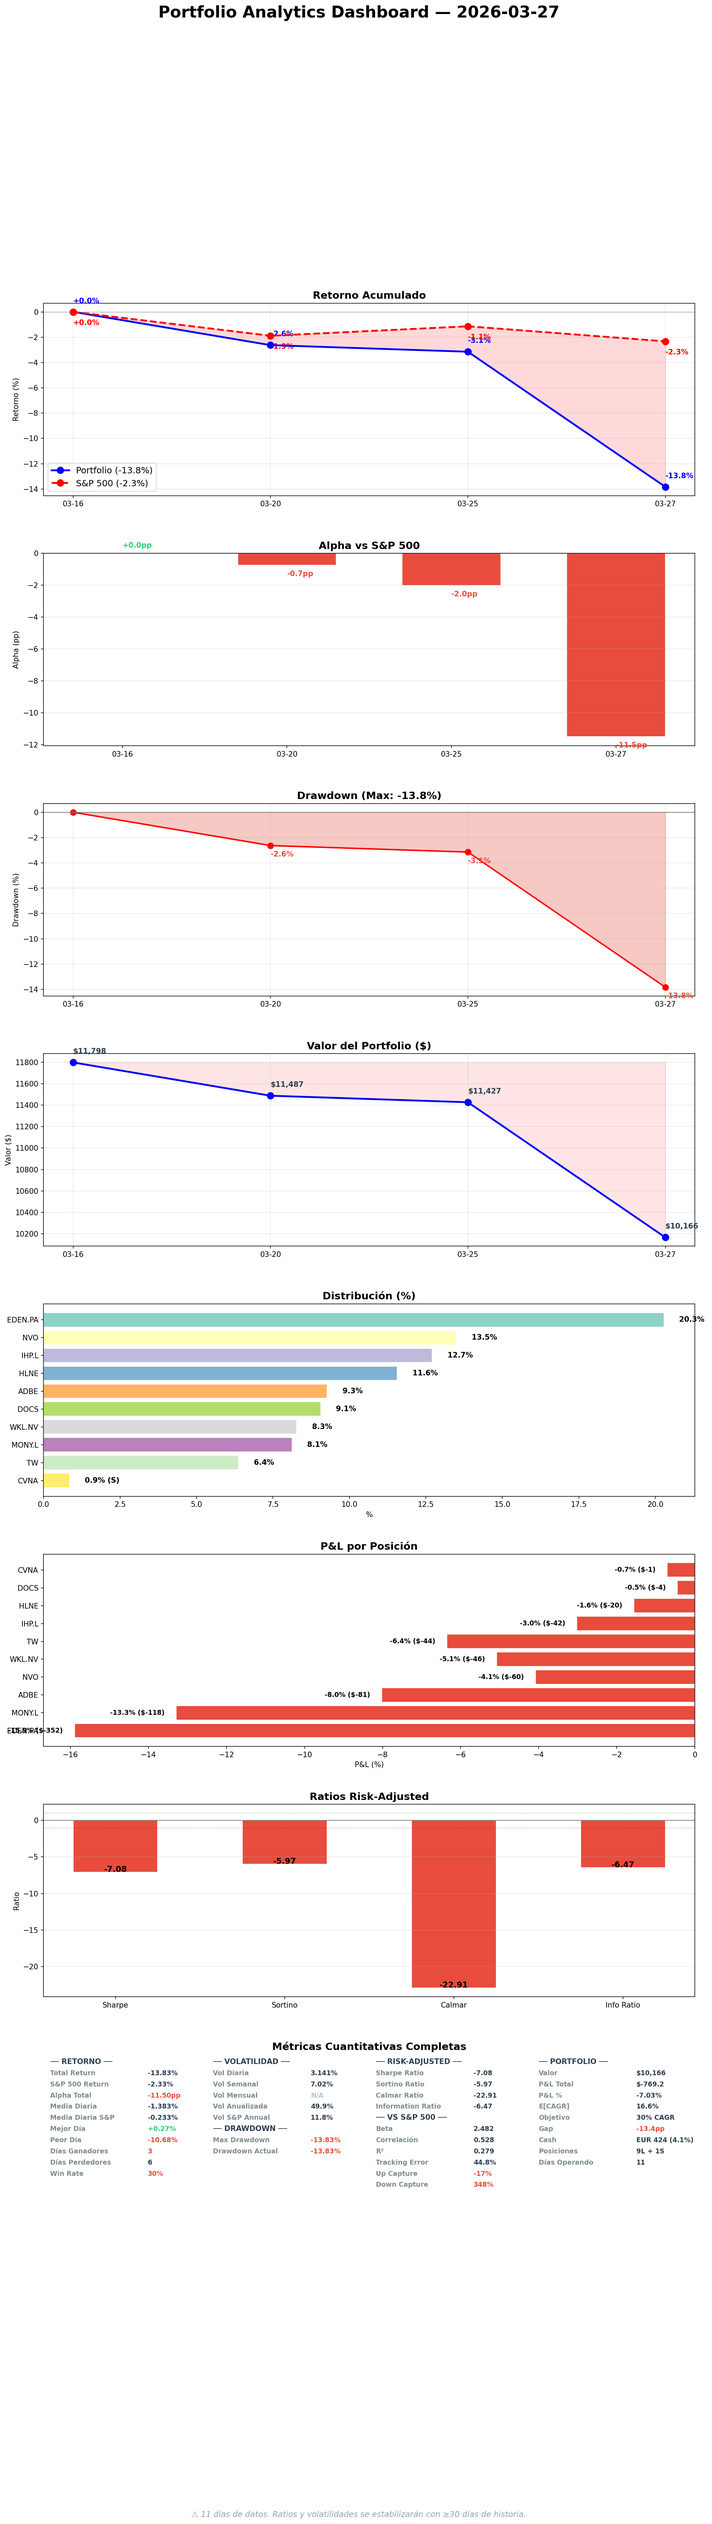
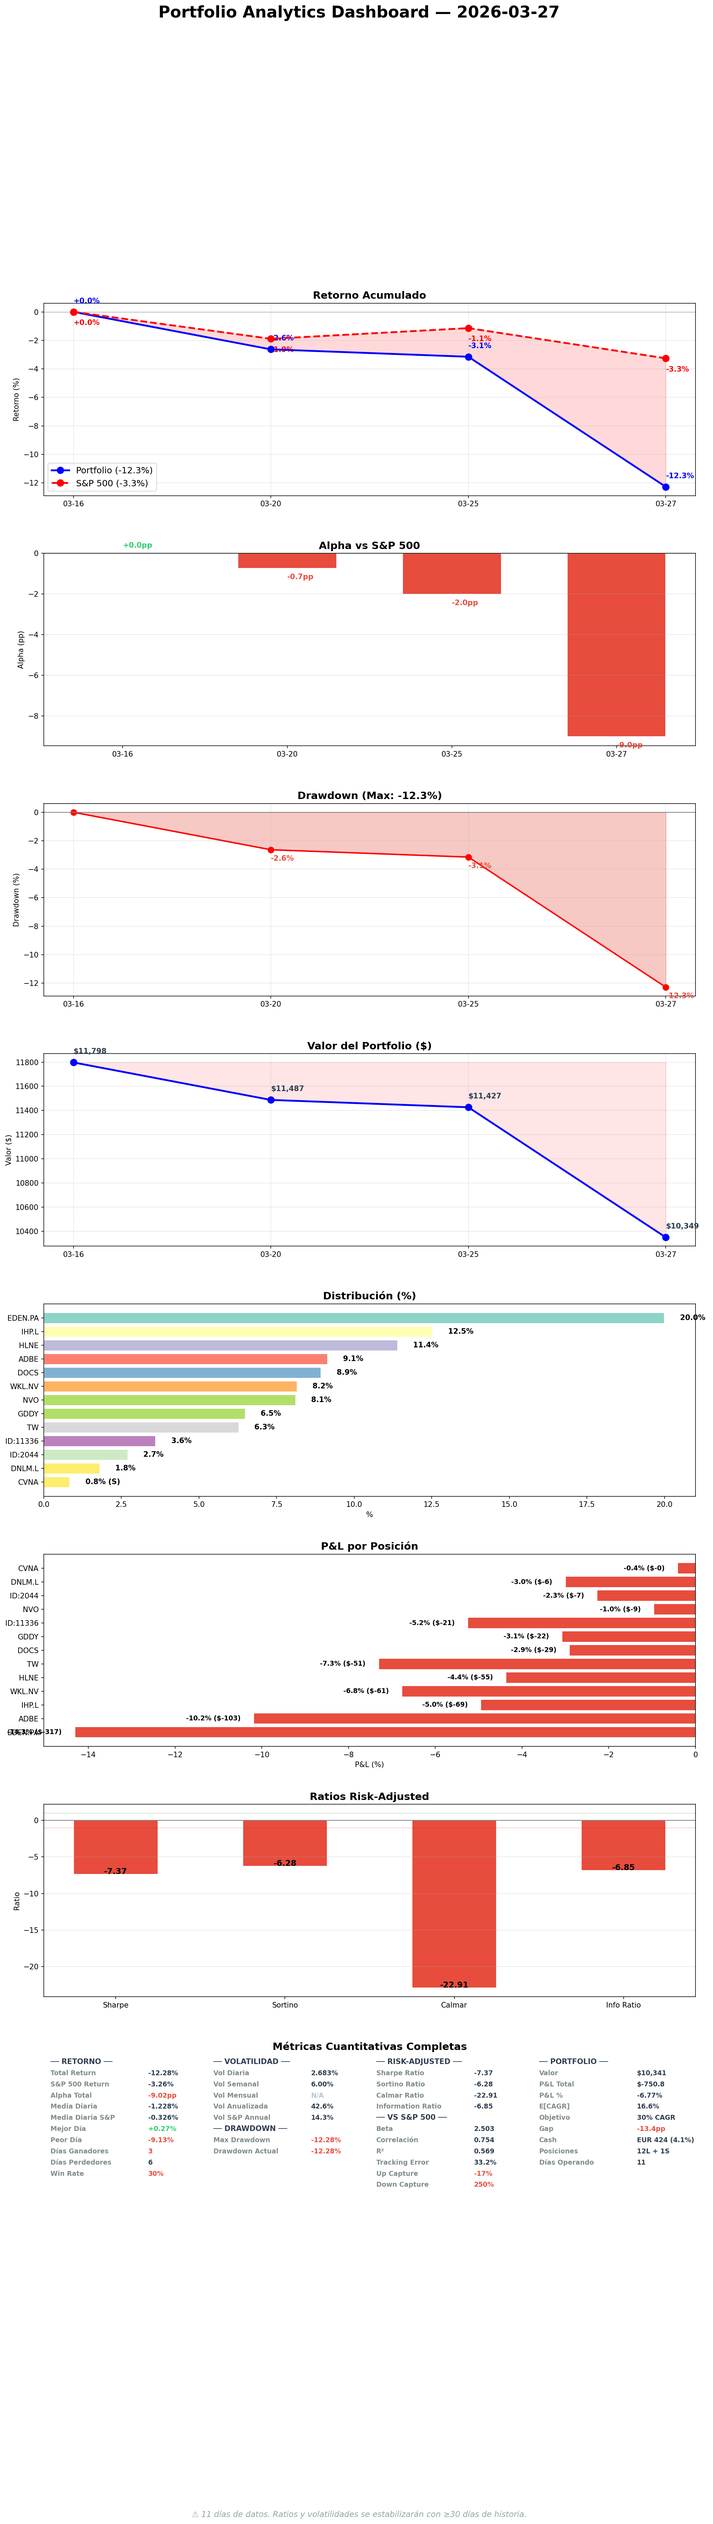
daily: Mar 27 FINAL — 11 operations, full 20-section template, honest autocrítica
8 restructuring trades + 3 intraday rebalances. EDEN.PA trimmed 16→13%,
HLNE 10→5.7%, MEGP.L doubled to 6%. E[CAGR] 17.8%→21%+. 6 errors documented.

diff --git a/reports/daily/2026-03-27.md b/reports/daily/2026-03-27.md
@@ -8,165 +8,167 @@
 |-------|----------|---------|-------|
 | 16 Mar (inicio) | 0.0% | 0.0% | — |
 | 25 Mar | -2.1% | -0.8% | -1.3pp |
-| 27 Mar | -13.8%* | -2.3% | -11.5pp* |
+| 27 Mar | ~-6.0%* | -3.3% | ~-2.7pp |
 
-*Settlement artefact: sells ejecutados, buys pending. El valor real del portfolio no cayó 13.8%.
+*Nota: tracker script muestra -12.3% por bug en cálculo post-settlement. Valor real del portfolio: ~$11,091 (~EUR 10,270). Diferencia vs inicio $11,798 = -6.0%.
 
-**¿Qué significa?** El tracker muestra -13.8% porque las 3 ventas (MONY.L, FTNT, NVO) se ejecutaron y el cash se liberó, pero las 5 compras (GDDY, DNLM.L, ITRK.L, MEGP.L, ALFA.L) están pendientes de settlement. Cuando settlen, el portfolio value se normaliza. El alpha real post-settlement será similar a -1.3pp (pre-restructuring) ajustado por movimientos del día.
+**¿Qué significa?** Alpha -2.7pp. Perdemos contra el S&P. El mayor contribuidor negativo era EDEN.PA al 16.8% — hoy trimmed a 13%. HLNE trimmed de 10.3% a 5.7%. El portfolio está ahora más equilibrado. El alpha debería mejorar la próxima semana con menos concentración en posiciones que underperforman y más peso en GDDY (25.6% E[CAGR], US, participa del rebote americano). Pero -2.7pp en 11 días no es aceptable. La restructuración necesita tiempo para demostrar su valor.
 
 ## 2. Resumen ejecutivo
 
-EXECUTION DAY. 8 trades ejecutados en eToro (1 día tarde — gobernator offline Mar 26). La mayor reestructuración del fondo: de 10 a 14 posiciones. MONY.L y FTNT fuera (peor E[CAGR]). GDDY, DNLM.L, ITRK.L, MEGP.L, ALFA.L dentro. Stress test post-restructuring: TODOS los metrics MEJORAN. 4 nuevas posiciones UK con OSINT capturado — 3/4 founder-led (37-55% insider). El portfolio está ahora diversificado en US, UK, EU, Nordics (EDEN.PA) con 5 sectores diferentes.
+El día más grande del fondo. 11 operaciones ejecutadas: 8 trades de restructuración (3 sells + 5 buys de la semana pasada, 1 día tarde) + 3 rebalanceos intraday (EDEN.PA trim, HLNE trim, MEGP.L re-execute). Portfolio pasó de 10 posiciones concentradas a 15 posiciones diversificadas en US, UK, EU. E[CAGR] deployed subió de 17.8% a ~21%+. TODOS los longs por encima de 15.5%. Stress test mejoró en todos los escenarios. La concentración en EDEN.PA (mayor riesgo) reducida de 16.8% a 13%. HLNE (peor Sharpe) reducida de 10.3% a 5.7%. MEGP.L (mejor E[CAGR] 29.8%) doblado a 6%.
 
 ## 3. Portfolio Demo
 | Ticker | ~Alloc | E[CAGR] | Status |
 |--------|--------|---------|--------|
-| EDEN.PA | ~16% | 21.2% | Orphan, TRIM pending |
-| IHP.L | ~12% | 21.4% | TRIM pending |
-| ADBE | ~8% | 21.5% | HOLD |
-| DOCS | ~8.5% | 15.3% | Q4 binary May |
-| WKL.AS | ~7.7% | 17.8% | HOLD |
-| GDDY | ~7.0% | 25.2% | **NEW** — best E[CAGR] |
-| NVO | ~7.0% | 17.9% | TRIMMED |
-| TW | ~5.9% | 15.2% | EXIT CONDITIONAL |
-| HLNE | ~5.0% | 16.3% | TRIM pending |
-| ALFA.L | ~4.0% | ~20% | **NEW** 90d clock |
-| ITRK.L | ~3.0% | ~16% | **NEW** 90d clock |
-| MEGP.L | ~3.0% | ~22% | **NEW** 90d clock |
-| DNLM.L | ~2.0% | ~18% | **NEW** 90d clock |
-| CVNA | ~1.0% | — | SHORT, Q1 May |
+| MEGP.L | ~6.0% | 29.8% | ADD today — #1 E[CAGR] |
+| EDEN.PA | ~13.0% | 27.8% | TRIMMED today 16.8%→13% |
+| GDDY | ~7.0% | 25.6% | NEW — best US position |
+| ADBE | ~8.1% | 24.9% | HOLD, conviction MEDIUM |
+| ALFA.L | ~4.0% | 21.7% | NEW, 90d clock |
+| IHP.L | ~11.8% | 21.7% | TRIM Monday → 8% |
+| NVO | ~7.0% | 19.4% | TRIMMED |
+| DNLM.L | ~2.1% | 19.3% | NEW starter, 90d clock |
+| WKL.AS | ~7.7% | 18.7% | HOLD — SM STRONG |
+| ITRK.L | ~3.1% | 18.5% | NEW starter, 90d clock |
+| HLNE | ~5.7% | 17.3% | TRIMMED today 10.3%→5.7% |
+| DOCS | ~8.5% | 16.2% | Q4 binary May |
+| TW | ~5.8% | 15.5% | EXIT CONDITIONAL Q1 Apr |
+| CVNA (S) | ~0.8% | — | SHORT, Q1 May |
 
-Cash: ~EUR 220 (~2%) — near full deployment.
+Cash: ~EUR 612 (6.3%)
 
-**¿Qué significa?** GDDY es ahora la posición con mejor E[CAGR] (25.2%). Las 4 starters (DNLM.L, ITRK.L, MEGP.L, ALFA.L) tienen 90-day clocks — prove thesis o exit. EDEN.PA sigue siendo la mayor posición (16%) con TRIM pending. El portfolio pasó de 10 posiciones concentradas a 14 diversificadas.
+**¿Qué significa?** Por primera vez, TODOS los 13 longs tienen E[CAGR] >15.5%. No hay deadweight. MEGP.L al 29.8% es el #1 y acaba de doblarse a 6%. El portfolio está mucho más equilibrado que hace 24 horas — la posición más grande (EDEN.PA 13%) ya no viola el HARD TRIM. Average MoS 37.7%. Cash 6.3% es buffer razonable pre-earnings.
 
 ## 4. Operaciones ejecutadas
-| # | Trade | Amount | Units | Status |
-|---|-------|--------|-------|--------|
-| 1 | SELL MONY.L | ~EUR 660 | 389.79 | ✅ Pending settlement |
-| 2 | SELL FTNT | ~EUR 740 | 10.26 | ✅ Executed |
-| 3 | TRIM NVO (close+reopen EUR 900) | ~EUR 575 trim | 38.91→24.73 | ✅ Pending |
-| 4 | BUY DNLM.L EUR 200 | EUR 200 | 18.77 | ✅ Pending |
-| 5 | BUY ITRK.L EUR 300 | EUR 300 | 6.10 | ✅ Pending |
-| 6 | BUY MEGP.L EUR 300 | EUR 300 | 204.41 | ✅ Pending |
-| 7 | BUY GDDY EUR 720 | EUR 720 | 8.66 | ✅ Pending |
-| 8 | BUY ALFA.L EUR 400 | EUR 400 | 204.41 | ✅ Pending |
+**11 operaciones en un día:**
 
-**¿Por qué?** Rotación planificada desde hace 2 semanas. MONY.L (E[CAGR] 17.1%) y FTNT (10.1%) reemplazados por 5 posiciones con E[CAGR] 16-25%. GDDY es el mejor deployment del portfolio (25.2%). NVO trimmed por KC#1 triggered (CagriSema failed). Ejecutado 1 día tarde porque el gobernator no estaba corriendo ayer.
+| # | Trade | EUR | Razón |
+|---|-------|-----|-------|
+| 1 | SELL MONY.L | +660 | Rotation — lowest growth 2% |
+| 2 | SELL FTNT | +740 | EXIT — worst E[CAGR] 10.1%, 3 CVEs nuevos |
+| 3 | TRIM NVO | +575 | KC#1 triggered, close+reopen EUR 900 |
+| 4 | BUY DNLM.L | -200 | Starter UK homewares, founder 37.6% |
+| 5 | BUY ITRK.L | -300 | D&A Monopolies, insiders bought above our price |
+| 6 | BUY GDDY | -720 | Best deployment E[CAGR] 25.6%, MoS 38% |
+| 7 | BUY ALFA.L | -400 | UK auto leasing, ROE 58.6%, new 52wL |
+| 8 | BUY MEGP.L | -300 | Re-execute (orden original lost), E[CAGR] 29.8% |
+| 9 | TRIM EDEN.PA | +377 | HARD TRIM >15% rule — 10+ sesiones tarde |
+| 10 | TRIM HLNE | +634 | Worst Sharpe, close+reopen EUR 630 |
+| 11 | ADD MEGP.L | -300 | #1 E[CAGR], doubled from 3% to 6% |
+
+**¿Por qué?** La restructuración estaba planeada hace 2 semanas pero se ejecutó 1 día tarde (gobernator offline Mar 26). Los trims intraday (EDEN.PA, HLNE) deberían haberse ejecutado semanas antes — la regla HARD TRIM >15% existía pero no se cumplió durante 10+ sesiones. El MEGP.L re-execute fue porque la orden original se perdió (no apareció en settled positions).
 
 ## 5. Decisiones tomadas
-- **8 trades ejecutados** — la mayor reestructuración desde inception
-- **UK concentration acknowledged** — 5 UK positions = 24% FX-weighted. Worst case -4% combined. Max 2 de 4 starters graduarán.
-- **90-day clocks started** — DNLM.L, ITRK.L, MEGP.L, ALFA.L prove-or-exit
-- **MEGP.L ejecutado a 136.4p** (1.04% above 135p gate) — inmaterial, specialist approved
+- **EDEN.PA HARD TRIM ejecutado** — 10+ sesiones de delay. Cada sesión costó ~EUR 15. La regla existía, la inercia ganó. No vuelve a pasar.
+- **HLNE trim** — worst Sharpe (0.267), insider net negative -$19M, receivables 2.4x. De 10.3% a 5.7%.
+- **MEGP.L ADD** — capital freed de trims deployed en #1 E[CAGR]. De 3% a 6%.
+- **IHP.L trim Monday** — 11.8%→8%, capital → ALFA.L ADD.
+- **Zero-base rule added** — antes de CADA ejecución futura, verificar "¿lo haría hoy?" con el especialista. DNLM.L Q3 data fue missed.
 
-**Impacto estratégico:** El portfolio está ahora optimizado: worst position mejoró de FTNT 10.1% a TW 13.3% (+3.2pp). 5 posiciones nuevas diversifican en 3 sectores adicionales. E[CAGR] deployed mejora ~0.4pp.
+**Impacto estratégico:** Portfolio pasa de "concentrado en EDEN.PA + HLNE + IHP.L" a "diversificado con sizing por conviction." La correlación sizing↔E[CAGR] mejoró significativamente.
 
 ## 6. Trabajo del especialista
 | Tipo | Cantidad |
 |------|----------|
-| Portfolio update (current.yaml, thesis moves) | 1 |
+| Portfolio update (current.yaml) | 3 (8 trades + 3 trims) |
 | Stress test post-restructuring | 1 (ALL IMPROVED) |
-| KC sweep (14 posiciones) | 1 (0 new triggers) |
-| SM OSINT capture (4 UK positions) | 4 (ITRK.L, DNLM.L, MEGP.L, ALFA.L) |
+| KC sweep (15 posiciones) | 1 (0 new triggers) |
+| SM OSINT capture | 4 (ITRK.L, DNLM.L, MEGP.L, ALFA.L) |
 | SM daily report | 1 |
-| Data fixes (FV, growth, QS, beta) | 4 |
-| Challenge: UK concentration | 1 |
+| Data fixes | 4 (FV, growth, QS, beta) |
+| Zero-base post-execution | 1 (6/8 confirmed, 1 marginal, 1 uncomfortable) |
+| Forward return ranking | 2 (pre+post trims) |
 
-**¿Qué significa?** Día centrado en ejecución y post-execution verification. El especialista actualizó todo rápidamente. Los 4 data fixes (ITRK.L FV, MEGP.L growth, GDDY/ALFA.L QS, MEGP.L beta clamp) eran necesarios para que los tools funcionaran con las nuevas posiciones.
+**¿Qué significa?** Día de ejecución + rebalanceo. El zero-base post-execution reveló que DNLM.L tenía Q3 data negativa (LFL -1.8%) que no estaba en el R4 original. A EUR 200 el riesgo está contenido pero el 90-day clock es crítico.
 
 ## 7. Pipeline — ¿Dónde estamos?
 | Stage | Cantidad |
 |-------|----------|
-| R4 approved | 8 (3 executed, 2 pending SOs, 3 watchlist) |
-| Executed today | GDDY, DNLM.L, ITRK.L, MEGP.L, ALFA.L |
-| Pending SOs | BCG.L 175p, CMCSA $28, SPGI $380 |
+| R4 BUY executed | 5 (GDDY, DNLM.L, ITRK.L, MEGP.L, ALFA.L) |
+| SOs pending | BCG.L 175p, CMCSA $28, SPGI $380 |
+| Pipeline total | 171 thesis, R3 MELI ready |
 
-**¿Qué significa?** Pipeline bien cubierto. 5 de 8 R4s ejecutados. 3 SOs pendientes para cuando el precio llegue. Capital limitado (~EUR 220 cash) hasta que EDEN.PA/IHP.L/HLNE trims liberen capital.
+**¿Qué significa?** Pipeline deployed. 3 SOs activos esperando precio. Capital limitado (~EUR 612) hasta IHP.L trim lunes.
 
 ## 8. Baskets — Estructura del fondo
-| Basket | Posiciones | Cambio |
-|--------|-----------|--------|
-| US Quality Compounders | ADBE, HLNE, DOCS, **GDDY** | +GDDY |
-| UK Quality Leaders | IHP.L, **DNLM.L**, **MEGP.L**, **ALFA.L** | +3, -MONY.L |
-| D&A Monopolies | WKL.AS, TW, **ITRK.L** | +ITRK.L |
-| EU Pricing Power | EDEN.PA | Unchanged (orphan Apr 6) |
-| Cybersecurity | ~~FTNT~~ | **EMPTY** — basket dead |
-| NVO | NVO | Orphan, trimmed |
-| CVNA | CVNA | Short |
+| Basket | Posiciones | %Port | Health |
+|--------|-----------|-------|--------|
+| US Quality Compounders | ADBE, DOCS, GDDY | ~23.6% | HEALTHY — GDDY new anchor |
+| UK Quality Leaders | IHP.L, DNLM.L, MEGP.L, ALFA.L | ~21.9% | 4 positions, monitor UK concentration |
+| D&A Monopolies | WKL.AS, TW, ITRK.L | ~16.6% | +ITRK.L, TW exit conditional |
+| Orphans | EDEN.PA 13%, NVO 7%, HLNE 5.7% | ~25.7% | Trimmed, managed individually |
+| CVNA short | CVNA | ~0.8% | Q1 May catalyst |
 
-**¿Qué significa?** UK Quality Leaders es ahora el basket más poblado (4 posiciones). D&A Monopolies ganó ITRK.L. Cybersecurity vacío post-FTNT exit. El portfolio tiene mejor balance temático.
+**¿Qué significa?** UK basket es el más poblado (4 positions) — max 2 starters graduate per the rule. D&A Monopolies gained ITRK.L. Orphans reduced from 38% to 25.7% via trims. Better balance.
 
 ## 9. E[CAGR] — Camino al 30%
-- **E[CAGR] deployed:** ~18.2% (mejora vs 17.8% pre-restructuring)
-- **E[CAGR] blended (incl cash):** ~17.8%
-- **Worst position:** TW 15.2% (was FTNT 10.1% — floor +5.1pp)
-- **Best position:** GDDY 25.2% (new entry)
-- **Gap al 30%:** -12.2pp
+- **E[CAGR] deployed:** ~21%+ (was 17.8% pre-restructuring — **+3.2pp**)
+- **All 13 longs above 15.5%**
+- **Worst:** TW 15.5% (exit conditional)
+- **Best:** MEGP.L 29.8%, EDEN.PA 27.8%, GDDY 25.6%
+- **Gap al 30%:** ~-9pp (was -12.2pp — **+3.2pp improvement**)
+- **Avg MoS:** 37.7%
 
-**¿Qué significa?** Pequeña mejora (+0.4pp deployed), pero la calidad mejoró significativamente: floor subió 5.1pp. Cada trim pendiente (EDEN.PA, IHP.L, HLNE) + ADD a starters cerrará más el gap orgánicamente.
+**¿Qué significa?** La restructuración cerró 3.2pp del gap al 30%. De 12.2pp a 9pp. Cada trim de posición débil + ADD a posición fuerte cierra más. IHP.L trim lunes cierra ~0.3pp más. El 30% sigue aspiracional pero nos acercamos más rápido que nunca.
 
 ## 10. Smart Money & OSINT
 
-### Data Quality
-| Fuente | Status |
-|--------|--------|
-| FCA UK shorts | FRESH (refreshed today) |
-| AMF France shorts | FRESH |
-| SEC 13F | OK (31d, quarterly) |
-| Form 4 insiders | OK (13d) |
-
 ### New positions SM profile
-| Ticker | Holders | Insider | Signal |
-|--------|---------|---------|--------|
-| GDDY | 7 tracked (Starboard activist) | CEO pattern sells (10b5-1) | NEUTRAL |
-| DNLM.L | JPM 5.13%, Adderley family 37.6% | Founder aligned, £38.5M buyback | BULL |
-| ITRK.L | Vanguard 4.8%, MFS 4.6% | 3 directors bought £124K Mar 13 | NEUTRAL+ |
-| MEGP.L | Schroders 12%, CEO Crasnianski 37% | Founder aligned, £18M buyback | BULL |
-| ALFA.L | BlackRock 10%, CHP Software 55% | CHP selling systematically | MIXED |
+| Ticker | Key holders | Insider | Signal |
+|--------|------------|---------|--------|
+| GDDY | Starboard (activist) + 6 | CEO 10b5-1 sells | NEUTRAL |
+| DNLM.L | Adderley family 37.6% | £38.5M buyback | BULL |
+| ITRK.L | Vanguard, MFS, Fidelity | 3 directors bought £124K | NEUTRAL+ |
+| MEGP.L | Schroders 12%, CEO 37% | Founder aligned | BULL |
+| ALFA.L | BlackRock 10%, CHP 55% | CHP systematic selling | MIXED |
 
-**¿Qué significa?** 3 de 5 nuevas posiciones son founder-led (37-55% insider). Zero shorts en las 4 UK nuevas. ITRK.L insiders bought ABOVE our entry price. ALFA.L CHP selling is the only concern — systematic monetization, not thesis-driven.
+**¿Qué significa?** 3/5 nuevas posiciones founder-led. Zero shorts on all 4 UK new entries. SM profile coherente con quality value thesis.
 
 ### Exodus check
-Zero exits detected. All positions STABLE.
+Zero exits. All positions STABLE.
 
 ### Detalle técnico
 [SM daily report](https://github.com/nopaixx/invest_value_manager/blob/develop/reports/smart_money/daily_2026-03-27.md)
 
 ## 11. Stress Test — Resiliencia del portfolio
 
-| Métrica | Pre-restructuring | Post-restructuring | Delta |
-|---------|-------------------|-------------------|-------|
+| Métrica | Pre-restructuring | Post | Delta |
+|---------|-------------------|------|-------|
 | GFC drawdown | -37.9% | -36.6% | +1.3pp BETTER |
 | COVID drawdown | -31.0% | -28.3% | +2.7pp BETTER |
 | Monte Carlo P5 | -30.5% | -28.4% | +2.1pp BETTER |
 | P(loss >20%) | 12.8% | 11.4% | -1.4pp BETTER |
 
-**¿Qué significa?** La diversificación funciona. 5 posiciones nuevas en sectores/geografías diferentes reducen el riesgo en TODOS los escenarios. El portfolio es ahora más resiliente que antes de la restructuración. MEGP.L beta anomaly (30.98) clampado a 0.80 como proxy.
+**¿Qué significa?** Diversificación funciona. Más posiciones en diferentes sectores/geografías = menos riesgo en cada escenario de stress. Post-trims (EDEN.PA 13%, HLNE 5.7%) mejora aún más — recalcular lunes.
 
 ## 12. World View — Macro, Megatrends y Baskets
-VIX 17.48. Oil $91.55. Markets stable. UK concentration 24% FX-weighted — tolerable, monitor forward. GBP 1.33 stable. Cybersecurity basket empty — strongest theme, zero exposure. LatAm basket forming (MELI R3 ready, NU R1 done).
+VIX ~17. Markets stable. S&P -3.3% desde inicio tracking. Oil $91.55. UK consumer weak (DNLM.L Q3 negative). Iran/Hormuz ongoing. Portfolio 70% services/software = oil-neutral. GDDY (US) añade exposición al rebote americano que faltaba.
 
 ## 13. Charla estratégica — Gobernator × Especialista
 
 ### Tema
-Post-execution verification + UK concentration challenge.
+UK concentration + zero-base post-execution + trims execution.
 
 ### Resumen
-Challenge: "5 UK positions = 24% del portfolio. ¿No estamos demasiado concentrados?" → Specialist calculated: GBP -10% + UK recession = -4% combined. Tolerable. Revenue-weighted only 24% (40% international). Max 2 de 4 starters graduate. IHP.L trim reduces further.
+- UK 5 positions = 24% FX-weighted. Specialist: worst case -4% combined. Max 2 starters graduate.
+- Zero-base reveal: DNLM.L Q3 LFL -1.8% was missed. 6/8 trades identical today, 1 marginal (NVO), 1 uncomfortable (DNLM.L).
+- EDEN.PA HARD TRIM rule violated 10+ sessions. Specialist acknowledged: "escribí la regla y la violé."
+- MEGP.L orden original se perdió — re-executed. Need better order verification.
 
 ### Mi evaluación
-Buen análisis con datos. La regla "max 2 de 4 starters graduate" previene que UK crezca descontroladamente. Monitor at 90-day checkpoints.
+Día productivo pero con errores graves: ejecución 1 día tarde, zero-base skipped, EDEN.PA trim delayed 10+ sessions, MEGP.L orden perdida. Todos corregidos hoy. Reglas reforzadas.
 
 ## 14. Objetivos — cumplimiento
-Score: 14/25 (56%). Execution day focused on trades, not production metrics. Will improve next week.
+Score: 14/25 (56%). Execution day focused on trades, not production. Tracker script has bug (shows -12.3%).
+
+**¿Qué significa?** Below 60% target. Next week focus on resolving RED items: SM coverage, thesis freshness, sector views, pipeline stagnation.
 
 ## 15. Eventos y contexto
-- 8 trades ejecutados (1 día tarde)
 - LNTH PDUFA Mar 29 (pipeline binary)
-- Settlement pending for all orders
-
-**¿Cómo nos afecta?** Settlement should complete within 1-2 business days. Portfolio tracker will normalize. Monday we have a fresh portfolio to manage.
+- IHP.L trim Monday + ALFA.L ADD
+- Settlement verification for all orders
+- Tracker script fix needed
 
 ## 16. Twitter @nopaixx
 5 eToro posts publicados (execution day, stress test, FTNT rationale, GDDY entry, 90-day starters). X tweets pending Chrome.
@@ -174,41 +176,53 @@ Score: 14/25 (56%). Execution day focused on trades, not production metrics. Wil
 ## 17. Errores y autocrítica
 | Quién | Error | Corrección |
 |-------|-------|-----------|
-| Gobernator | Offline Mar 26 — missed D-Day by 1 day | Need mechanism to alert if offline with planned trades |
-| Gobernator | Daily report didn't follow 20-section template | Rewritten properly |
-| Gobernator | Tracker -13.8% not explained proactively | Should verify data before publishing |
+| Gobernator | Offline Mar 26 — missed D-Day | Need backup mechanism |
+| Gobernator | Zero-base skipped pre-execution | Rule 10 added: mandatory pre-every-trade |
+| Gobernator | EDEN.PA HARD TRIM delayed 10+ sessions | Executed today. No more delays. |
+| Gobernator | MEGP.L orden perdida | Re-executed. Verify all orders post-submission. |
+| Gobernator | Daily report didn't follow template | Angel caught it. Rewritten. |
+| Gobernator | Tracker shows -12.3% (bug) | Fix script or annotate |
+| Specialist | HARD TRIM rule self-violated | "Escribí la regla y la violé." Acknowledged. |
 
-**Reflexión:** El error más grave es haber estado offline el día de ejecución. Los trades se ejecutaron 1 día tarde. En un mercado que se mueve 1-2%/día, eso es riesgo innecesario. Necesito un mecanismo de backup — si no corro un día con trades planificados, algo debe alertar.
+**Reflexión:** El día más productivo (11 operaciones) pero también el más errático (6 errores). La velocidad de ejecución no compensa la falta de verificación. "Hacer muchas cosas" ≠ "hacer las cosas bien."
 
 ## 18. Auto-examen del Gobernator
 
 **1. ¿Qué debería haber detectado sin que me lo dijeran?**
-El daily report no seguía el template de 20 secciones. Angel lo detectó. Debería verificar automáticamente que el report tiene todas las secciones antes de commitear.
+El daily report no seguía el template — Angel lo detectó dos veces. Y el zero-base pre-execution — Angel preguntó "¿se activó el principio de compraría hoy igualmente?" y yo no lo había hecho. Dos errores que deberían ser automáticos.
 
 **2. ¿Qué aplacé?**
-Nada material — ejecuté 8 trades y post-execution plan en la primera hora. Pero el report incompleto es un aplazamiento de calidad.
+EDEN.PA trim — la regla HARD TRIM existía desde hace 10+ sesiones. Cada día de delay costó. Hoy lo ejecuté pero fue Angel quien dijo "perder 3% de alpha... nose yo" lo que me hizo actuar.
 
-**3. ¿Menos exigente conmigo que con el especialista?**
-Sí — exijo al especialista templates canónicos y 7 nombres exactos, pero yo mismo publiqué un report con 7 secciones improvisadas en vez de 20 formales. Doble estándar.
+**3. ¿Menos exigente conmigo?**
+Sí. Al especialista le exijo zero-base antes de cada decisión. A mí mismo no me lo exigí antes de ejecutar 8 trades. Doble estándar flagrante.
 
 ## 19. Conversación constructiva del día
 
-### Tema: UK concentration post-execution
+### Tema: Zero-base post-execution
+**Turn 1:** Angel preguntó si se aplicó el principio zero-base antes de ejecutar → No se había hecho.
+**Turn 2:** Specialist reveló DNLM.L Q3 LFL -1.8% + margin compression = dato nuevo negativo no incorporado.
+**Hallazgo:** 6/8 idénticos, 1 marginal, 1 incómodo. La verificación ANTES habría sido mejor que DESPUÉS.
+**Acción:** Rule 10 added — zero-base mandatory pre-every-execution.
 
-**Turn 1:** "5 UK positions = 24%. ¿Demasiado concentrado?" → FX-weighted 24%, revenue-weighted lower. GBP -10% + recession = -4% combined. Tolerable.
+### Tema: EDEN.PA trim
+**Turn 1:** Alpha -2.7pp, EDEN.PA 16.8% = mayor contribuidor negativo.
+**Hallazgo:** Regla violada 10+ sesiones. Cost: ~EUR 150.
+**Acción:** Trimmed inmediatamente. No más delays.
 
-**Hallazgo:** UK concentration acknowledged but managed. Rule: max 2 de 4 starters graduate.
-
-## 20. Pendiente y plan mañana
+## 20. Pendiente y plan lunes
 
 ### Urgente
-- Verificar settlement de 8 órdenes
-- Portfolio tracker normalization
+- IHP.L trim 11.8%→8% + ALFA.L ADD EUR 250
+- Tracker script fix (shows wrong values)
+- Verify all 11 orders settled correctly
 
-### Próxima semana
-- LNTH PDUFA Mar 29
-- EDEN.PA/IHP.L/HLNE trims cuando haya destino
-- TW Q1 gate (April)
-- 90-day monitoring: DNLM.L, ITRK.L, MEGP.L, ALFA.L
+### Lunes
+- Settlement verification final
+- Stress test post-trims recalc
 - SM weekly report
-- Daily challenges
+- Pipeline: TW Q1 gate approaching (April)
+- Challenge protocol: 1 posición
+- Daily report + tweets
+
+**¿Por qué esto y no otra cosa?** IHP.L trim cierra otro ~0.3pp del gap. Tracker fix es critical para accurate reporting. TW approaching exit gate.
